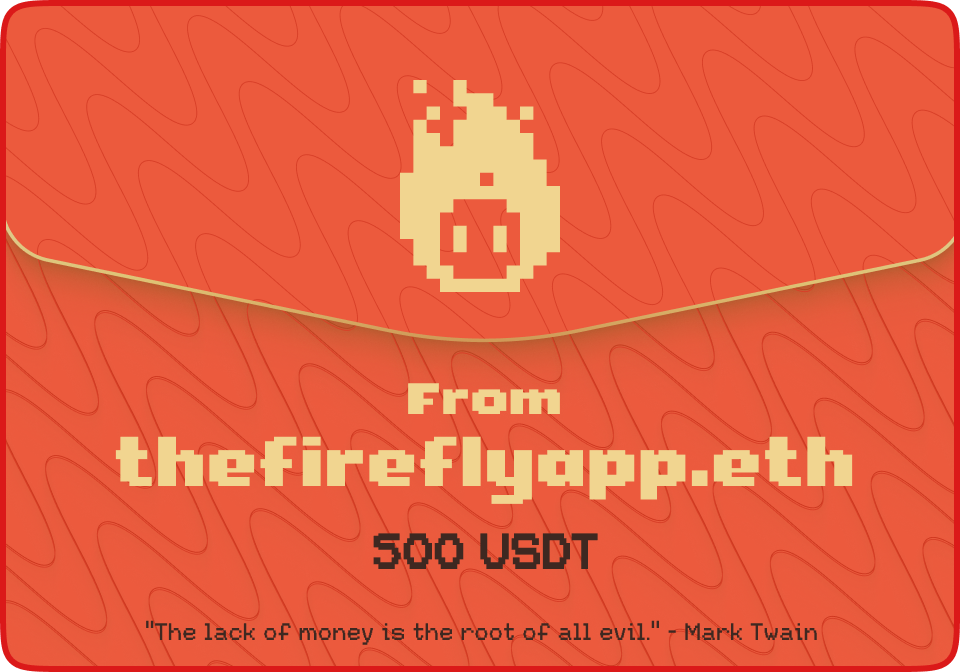
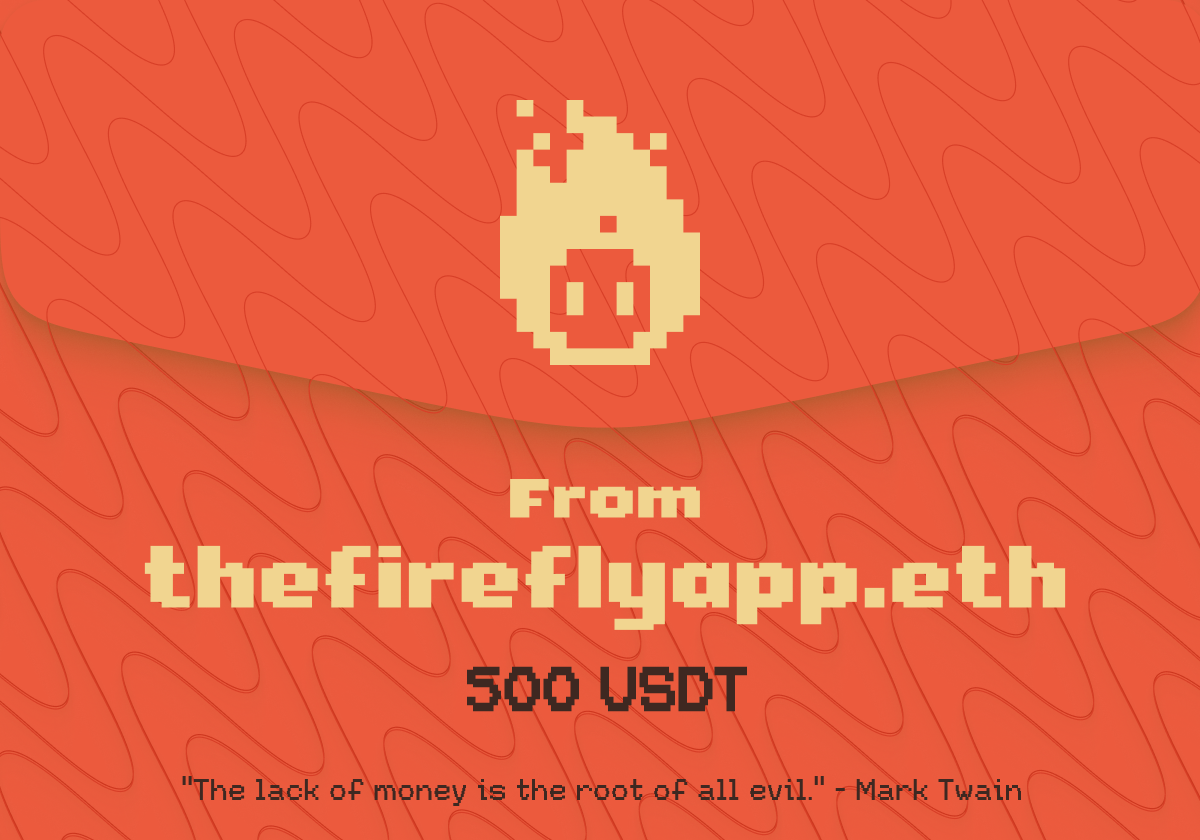
chore: update payload

diff --git a/src/services/steganography.ts b/src/services/steganography.ts
@@ -55,8 +55,8 @@ const PRESET_SETTINGS: Record<
         preset: SteganographyPreset.Preset202312,
         description: 'the preset mask network used for payload V37',
         mask: null,
-        width: 960,
-        height: 672,
+        width: 1200,
+        height: 840,
         payload: '/image/payload-202312.png',
         options: libV2AlgrDefaults,
     },
